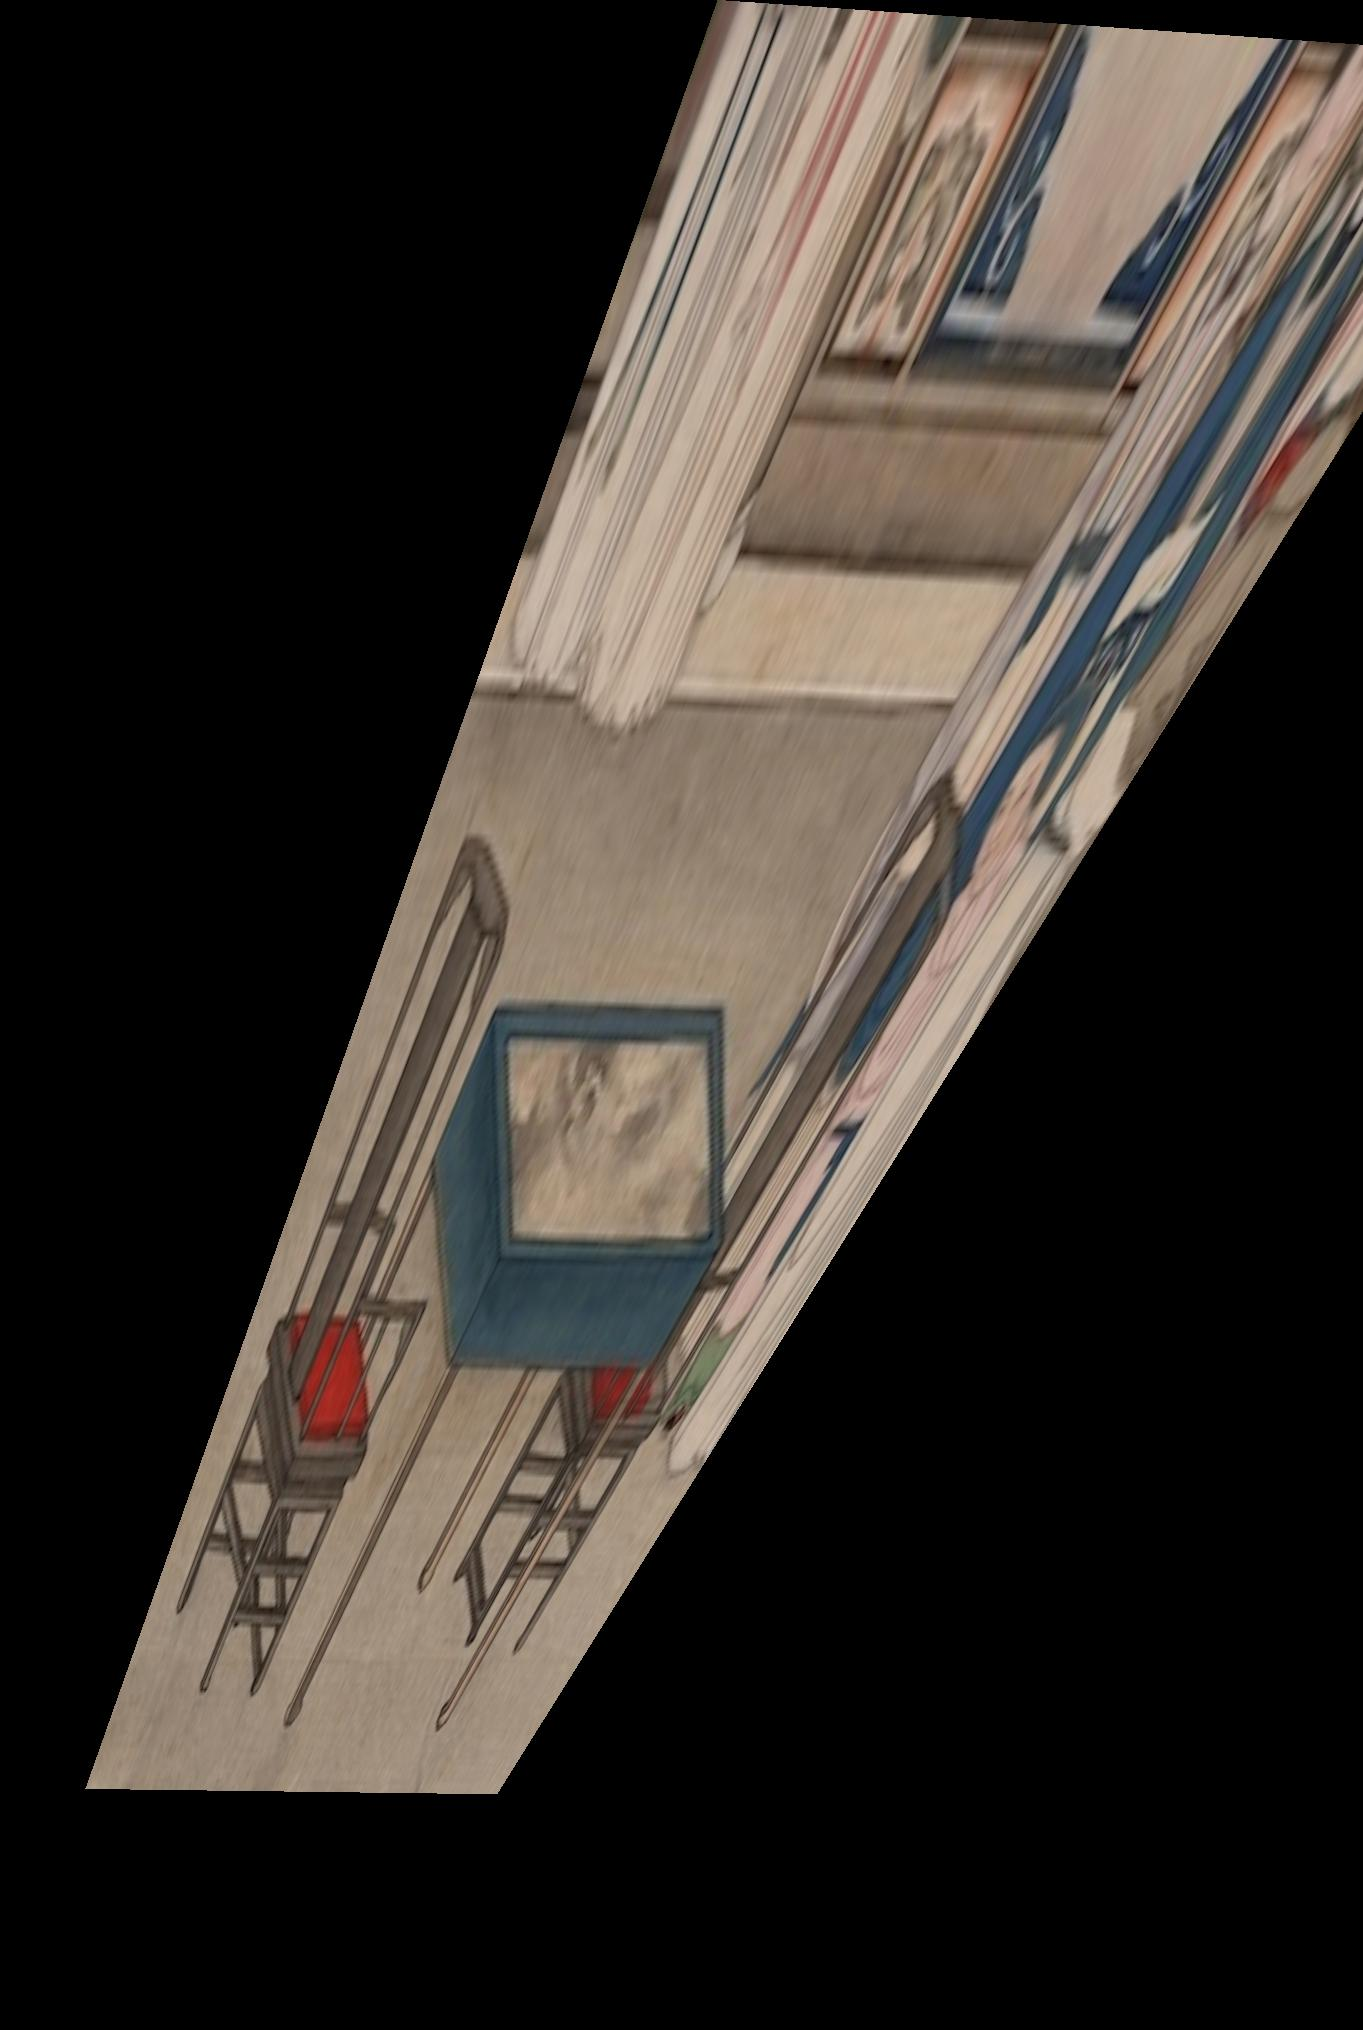
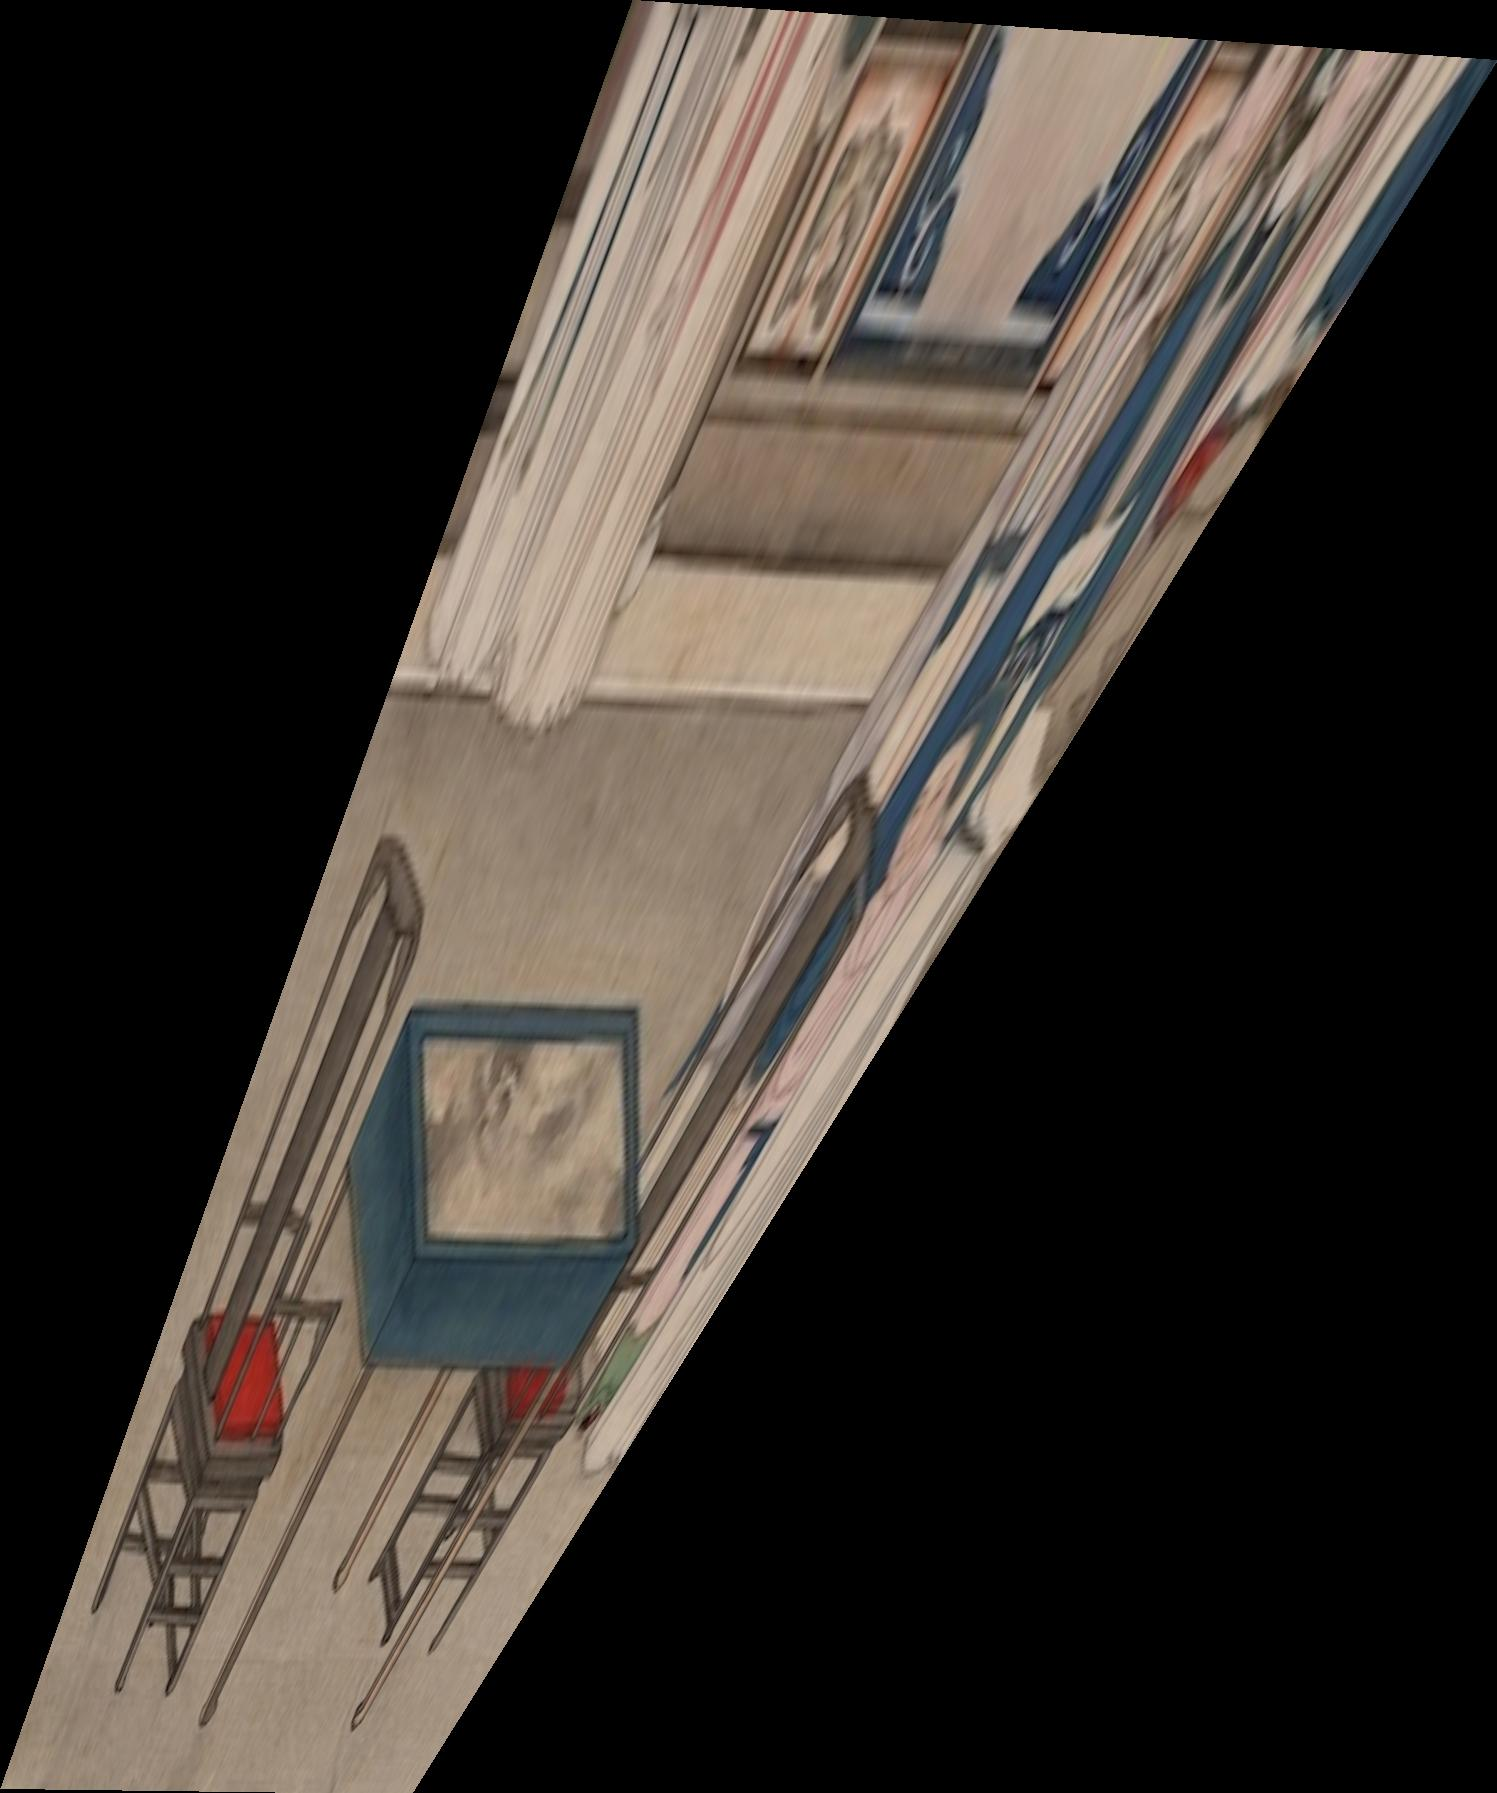
done with basic mosaic

diff --git a/code/utils.py b/code/utils.py
@@ -1,12 +1,18 @@
 import numpy as np
 from scipy.interpolate import RegularGridInterpolator
+import matplotlib.pyplot as plt
+import skimage.io as skio
+import cv2
+
 
 # ===== Helpers ======
+
 
 # Appends a one to each coordinate
 def homogeneous_coords(coords):
     ones = np.ones((coords.shape[0], 1))
     return np.hstack([coords, ones])
+
 
 # Samples the color for each coordinate using bilinear interpolation. Coords outside the image default to 0.
 def bilinear_interpolation(img, coords):
@@ -16,20 +22,32 @@ def bilinear_interpolation(img, coords):
     x = np.arange(width)
     y = np.arange(height)
 
-    if len(img.shape) == 2: # Grayscale image
-        interpolator = RegularGridInterpolator((y, x), img, bounds_error=False, fill_value=0)
+    if len(img.shape) == 2:  # Grayscale image
+        interpolator = RegularGridInterpolator(
+            (y, x), img, bounds_error=False, fill_value=0
+        )
         interpolated_colors = interpolator(coords)
-    else: # RGB image
+    else:  # RGB image
         interpolated_colors = []
         for c in range(3):
-            interpolator = RegularGridInterpolator((y, x), img[:, :, c], bounds_error=False, fill_value=0)
+            interpolator = RegularGridInterpolator(
+                (y, x), img[:, :, c], bounds_error=False, fill_value=0
+            )
             interpolated_colors.append(interpolator(coords))
         interpolated_colors = np.stack(interpolated_colors, axis=-1)
 
     return interpolated_colors
 
 
+def display_img_with_keypoints(img, keypoints):
+    plt.imshow(img)
+    x_coords, y_coords = zip(*keypoints)
+    plt.scatter(x_coords, y_coords, color="red", marker="o", s=10)
+    plt.show()
+
+
 # ===== Algorithms =====
+
 
 # Returns the homography matrix that maps im1 to im2 using given correspondances
 def compute_homography(im1_pts, im2_pts):
@@ -38,8 +56,8 @@ def compute_homography(im1_pts, im2_pts):
     y = []
 
     for i in range(n):
-        y1, x1 = im1_pts[i]
-        y2, x2 = im2_pts[i]
+        x1, y1 = im1_pts[i]
+        x2, y2 = im2_pts[i]
         A.append([x1, y1, 1, 0, 0, 0, -x1 * x2, -y1 * x2])
         A.append([0, 0, 0, x1, y1, 1, -x1 * y2, -y1 * y2])
         y.extend([x2, y2])
@@ -54,12 +72,15 @@ def compute_homography(im1_pts, im2_pts):
     H = np.append(h, 1).reshape(3, 3)
     return H
 
-# Returns the warped image after applying the given homography transformation
+
+# Returns the warped image after applying a homography and a shift vector to bring it to its "true" coordinates
 def warp_image(im, H):
     h, w = im.shape[:2]
-    corners = np.array([[0, 0, 1], [w-1, 0, 1], [w-1, h-1, 1], [0, h-1, 1]])
-    corners = (H @ np.reshape(corners, (4, 3, 1))) # 4 column vectors
-    corners = np.array([corner / corner[2] for corner in corners]) # account for scaling factor w
+    corners = np.array([[0, 0, 1], [w - 1, 0, 1], [w - 1, h - 1, 1], [0, h - 1, 1]])
+    corners = H @ np.reshape(corners, (4, 3, 1))  # 4 column vectors
+    corners = np.array(
+        [corner / corner[2] for corner in corners]
+    )  # account for scaling factor w
 
     corners = np.squeeze(corners)
     x_values = corners[:, 0]
@@ -79,13 +100,56 @@ def warp_image(im, H):
     xs = xs / ws
     ys = ys / ws
 
-    colors = bilinear_interpolation(im, np.column_stack((xs, ys)))
+    colors = bilinear_interpolation(im, np.column_stack((ys, xs)))
     colors = np.reshape(colors, (max_y - min_y, max_x - min_x, 3))
 
-    return colors.astype(np.uint8)
+    return colors.astype(np.uint8), min_x, min_y
 
 
 # Return a warped version of the image with a "straightened out" rectangle
 def rectify_image(im, im_pts, rect_pts):
     H = compute_homography(np.array(im_pts), np.array(rect_pts))
-    return warp_image(im, H)
+    ret, _, _ = warp_image(im, H)
+    return ret
+
+
+# Returns a mosaic of two images, where the second image is projected onto the first
+def build_mosaic(im1, im2, im1_pts, im2_pts):
+    H = compute_homography(np.array(im2_pts), np.array(im1_pts))
+    warped_im2, dx, dy = warp_image(im2, H)
+
+    im1_min_x, im1_max_x = 0, im1.shape[1] - 1
+    im1_min_y, im1_max_y = 0, im1.shape[0] - 1
+    warped_im2_min_x, warped_im2_max_x = dx, dx + warped_im2.shape[1] - 1
+    warped_im2_min_y, warped_im2_max_y = dy, dy + warped_im2.shape[0] - 1
+
+    min_x = min(im1_min_x, warped_im2_min_x)
+    max_x = max(im1_max_x, warped_im2_max_x)
+    min_y = min(im1_min_y, warped_im2_min_y)
+    max_y = max(im1_max_y, warped_im2_max_y)
+
+    ret = np.zeros((max_y - min_y + 1, max_x - min_x + 1, 3))
+    shift_x, shift_y = -min_x, -min_y
+
+    # Shift and place im1 into ret
+    ret[shift_y : shift_y + im1.shape[0], shift_x : shift_x + im1.shape[1]] = im1
+
+    # Shift and place warped_im2 into the correct position in ret
+    warped_y_start = warped_im2_min_y + shift_y
+    warped_y_end = warped_y_start + warped_im2.shape[0]
+    warped_x_start = warped_im2_min_x + shift_x
+    warped_x_end = warped_x_start + warped_im2.shape[1]
+
+    # Extract the region where warped_im2 will be placed
+    ret_region = ret[warped_y_start:warped_y_end, warped_x_start:warped_x_end]
+
+    # Find non-zero pixels in ret_region (overlapping pixels)
+    overlap_mask = ret_region != 0
+
+    # Average overlapping pixels
+    ret_region[overlap_mask] = (ret_region[overlap_mask] + warped_im2[overlap_mask]) / 2
+
+    # Assign non-overlapping pixels directly
+    ret_region[~overlap_mask] = warped_im2[~overlap_mask]
+
+    return ret.astype(np.uint8)

diff --git a/code/main.py b/code/main.py
@@ -1,15 +1,131 @@
 import skimage.io as skio
-from utils import rectify_image
+from utils import rectify_image, build_mosaic, display_img_with_keypoints
 
-# Image rectification
-ART_KEYPOINTS = [[87, 98], [138, 128], [259, 127], [197, 97]]
-ART_RECTANGLE = [[0, 0], [200, 0], [200, 200], [0, 200]]
-im = skio.imread(f'../data/art.jpg')
-rectified_im = rectify_image(im, ART_KEYPOINTS, ART_RECTANGLE)
-skio.imsave(f'../images/rectified_art.jpg', rectified_im)
 
-IPAD_KEYPOINTS = [(40, 188), (172, 503), (462, 363), (264, 135)]
-IPAD_RECTANGLE = [(0, 0), (281 * 2, 0), (281 * 2, 215 * 2), (0, 215 * 2)]
-im = skio.imread(f'../data/ipad.jpg')
-rectified_im = rectify_image(im, IPAD_KEYPOINTS, IPAD_RECTANGLE)
-skio.imsave(f'../images/rectified_ipad.jpg', rectified_im)
+# Drivers
+def image_rectification():
+    ART_KEYPOINTS = [[87, 98], [138, 128], [259, 127], [197, 97]]
+    ART_RECTANGLE = [[0, 0], [0, 200], [200, 200], [200, 0]]
+    im = skio.imread(f"../data/art.jpg")
+    rectified_im = rectify_image(im, ART_KEYPOINTS, ART_RECTANGLE)
+    skio.imsave(f"../images/rectified_art.jpg", rectified_im)
+
+    IPAD_KEYPOINTS = [(40, 188), (172, 503), (462, 363), (264, 135)]
+    IPAD_RECTANGLE = [(0, 0), (0, 281 * 2), (215 * 2, 281 * 2), (215 * 2, 0)]
+    im = skio.imread(f"../data/ipad.jpg")
+    rectified_im = rectify_image(im, IPAD_KEYPOINTS, IPAD_RECTANGLE)
+    skio.imsave(f"../images/rectified_ipad.jpg", rectified_im)
+
+
+def mosaic_blending():
+    im1 = skio.imread(f"../data/balcony1.JPG")
+    im2 = skio.imread(f"../data/balcony2.JPG")
+    BALCONY_KEYPOINTS1 = [
+        (443, 465),
+        (477, 467),
+        (478, 560),
+        (460, 437),
+        (355, 376),
+        (472, 378),
+        (497, 416),
+        (700, 425),
+        (877, 572),
+        (798, 250),
+        (739, 278),
+        (967, 241),
+    ]
+
+    BALCONY_KEYPOINTS2 = [
+        (204, 479),
+        (254, 478),
+        (253, 587),
+        (233, 442),
+        (56, 367),
+        (250, 373),
+        (282, 417),
+        (490, 420),
+        (608, 527),
+        (563, 275),
+        (522, 292),
+        (660, 284),
+    ]
+
+    # display_img_with_keypoints(im1, BALCONY_KEYPOINTS1)
+    # display_img_with_keypoints(im2, BALCONY_KEYPOINTS2)
+    mosaic = build_mosaic(im1, im2, BALCONY_KEYPOINTS1, BALCONY_KEYPOINTS2)
+    skio.imsave(f"../images/balcony_mosaic.jpg", mosaic)
+
+    im1 = skio.imread(f"../data/livingroom1.JPG")
+    im2 = skio.imread(f"../data/livingroom2.JPG")
+
+    LIVINGROOM_KEYPOINTS1 = [
+        (298, 355),
+        (268, 210),
+        (255, 142),
+        (438, 174),
+        (442, 244),
+        (447, 321),
+        (699, 216),
+        (688, 288),
+        (169, 343),
+        (222, 376),
+        (243, 263),
+        (295, 109),
+        (665, 158),
+        (35, 44),
+    ]
+    LIVINGROOM_KEYPOINTS2 = [
+        (276, 719),
+        (272, 558),
+        (271, 492),
+        (443, 521),
+        (443, 592),
+        (444, 679),
+        (703, 569),
+        (702, 644),
+        (140, 705),
+        (189, 746),
+        (237, 614),
+        (314, 463),
+        (661, 510),
+        (87, 407),
+    ]
+
+    # display_img_with_keypoints(im1, LIVINGROOM_KEYPOINTS1)
+    # display_img_with_keypoints(im2, LIVINGROOM_KEYPOINTS2)
+    mosaic = build_mosaic(im1, im2, LIVINGROOM_KEYPOINTS1, LIVINGROOM_KEYPOINTS2)
+    skio.imsave(f"../images/livingroom_mosaic.jpg", mosaic)
+
+    im1 = skio.imread(f"../data/shoes1.JPG")
+    im2 = skio.imread(f"../data/shoes2.JPG")
+
+    SHOES_KEYPOINTS1 = [
+        (184, 428),
+        (557, 429),
+        (201, 612),
+        (540, 612),
+        (213, 764),
+        (528, 766),
+        (225, 894),
+        (516, 896),
+    ]
+    SHOES_KEYPOINTS2 = [
+        (179, 242),
+        (570, 239),
+        (210, 434),
+        (542, 431),
+        (233, 571),
+        (522, 571),
+        (249, 681),
+        (508, 681),
+    ]
+
+    # display_img_with_keypoints(im1, SHOES_KEYPOINTS1)
+    # display_img_with_keypoints(im2, SHOES_KEYPOINTS2)
+    mosaic = build_mosaic(im1, im2, SHOES_KEYPOINTS1, SHOES_KEYPOINTS2)
+    skio.imsave(f"../images/shoes_mosaic.jpg", mosaic)
+
+
+# Main
+image_rectification()
+mosaic_blending()
